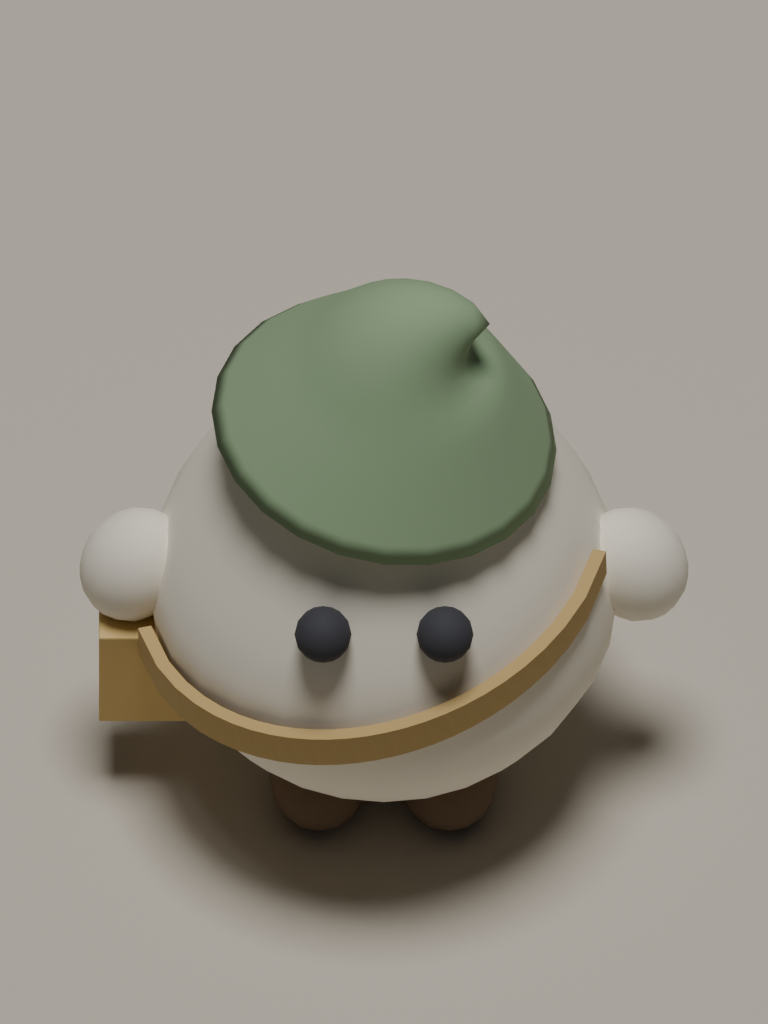
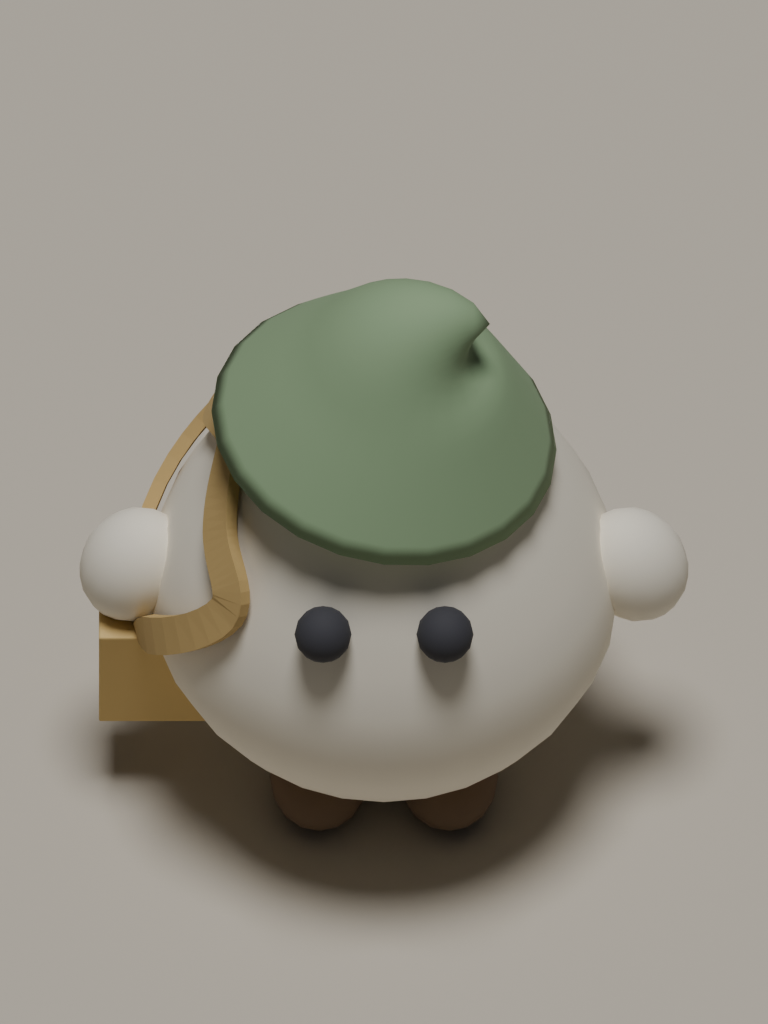
feat: shoulder-strap loop for Garden Wight
- Strap runs from the bag's front top edge up the front flank beside
  the face, over the shoulder and down the back to the bag's rear top
  edge; replaces the front-only band that read as a mouth from the
  50 degree preview camera
- Catmull-Rom waypoints in (angle, height, surface offset) keep every
  sample outside the body; ends taper and bury inside the bag
- Docs: executed vs pending checks, image vs figure height, Body mesh
  name exception; add back, bag-side and 96/48 px figure-height renders

Claude-Session: https://claude.ai/code/session_019bN8vgtbadsSWB4L1po9wd

Changed region(s): [[0.1562, 0.375, 0.8125, 0.75], [0.25, 0.8125, 0.5312, 0.9062]]

diff --git a/art/generators/garden_wight.py b/art/generators/garden_wight.py
@@ -4,7 +4,7 @@ Generates the first static version of the game's non-human player
 character: a small, pear-shaped garden gnome ("Gartenwicht") with a
 cream overcoat, an asymmetric moss-green leaf cap, dark round eyes, two
 short rounded hand-stubs, two small dark-brown feet, and an ochre seed
-bag on a diagonal strap.
+bag on a shoulder strap.
 
 Conventions
 -----------
@@ -103,13 +103,24 @@ CONFIG = {
     "cap_bend_start": 0.45,       # fraction of cap_height where the droop begins
     # Seed bag + strap.
     "bag_size": (0.15, 0.10, 0.17),   # full x, y, z extents
-    "bag_height_ratio": 0.24,     # low enough for the strap to read as a diagonal
+    "bag_height_ratio": 0.24,
     "bag_embed": 0.35,            # fraction of bag x-extent overlapping the flank
+    # The strap is a loop on the bag side: up the front flank beside the face,
+    # over the shoulder, down the back, both ends buried in the bag's top.
+    # Angles are measured around the body from the front (0) towards the bag
+    # side (90); the back half mirrors them (180 - angle).
     "strap_width": 0.05,          # across the band
-    "strap_thickness": 0.018,     # band thickness; the band follows the body surface
+    "strap_end_width": 0.024,     # tapered ends, so both fit inside the bag's depth
+    "strap_taper_length": 0.05,   # height above the bag top over which the band narrows
+    "strap_thickness": 0.018,     # band thickness
     "strap_lift": 0.006,          # gap between body surface and the band's inner side
-    "strap_shoulder_ratio": 0.58,   # below the eyes, so the band never crosses them
-    "strap_shoulder_offset": 0.97,   # fraction of the body radius at shoulder height
+    "strap_mid_ratio": 0.62,      # lower waypoint height (fraction of body_height)
+    "strap_mid_angle_deg": 48.0,  # keeps the front run clear of the eyes and the hand
+    "strap_upper_ratio": 0.72,
+    "strap_upper_angle_deg": 64.0,
+    "strap_shoulder_ratio": 0.82,  # crest over the shoulder, at 90 deg (the bag side)
+    "strap_bag_inset": 0.25,      # anchor inset from the bag's front/back face, fraction of bag depth
+    "strap_bury": 0.03,           # how far each end reaches down into the bag
     # Preview only (never exported to GLB).
     "preview_pitch_deg": 50.0,    # camera tilt below the horizon
     "preview_distance": 3.0,      # orthographic: affects clipping/placement, not scale
@@ -263,15 +274,15 @@ def derive_dimensions(config: dict) -> dict:
     dims["bag_top_z"] = bag_z + bag_z_size / 2.0
     dims["body_radius_at_bag"] = bag_r
 
-    # Strap: diagonal band from the opposite shoulder down to the bag's top,
-    # laid over the front of the chest. The endpoints are fixed here; the
-    # band itself follows the body surface in between (see strap_path()).
-    shoulder_z = _height_at(config, config["strap_shoulder_ratio"])
-    shoulder_r = body_radius_at(shoulder_z, config)
-    start_x = -bag_sign * shoulder_r * config["strap_shoulder_offset"]
-    dims["strap_start"] = (start_x, shoulder_z)
-    dims["strap_end"] = (dims["bag_center"][0], dims["bag_top_z"])
-    dims["body_radius_at_shoulder"] = shoulder_r
+    # Strap anchors: front and back of the bag's top, inset from the faces
+    # (see strap_path() for the loop between them).
+    bag_x, bag_y, _bag_z = dims["bag_center"]
+    inset = bag_y_size * config["strap_bag_inset"]
+    front_y = bag_y + FRONT_SIGN * (bag_y_size / 2.0 - inset)
+    back_y = bag_y - FRONT_SIGN * (bag_y_size / 2.0 - inset)
+    anchor_x = bag_x - bag_sign * bag_x_size * 0.25   # towards the body
+    dims["strap_anchor_front"] = (anchor_x, front_y, dims["bag_top_z"])
+    dims["strap_anchor_back"] = (anchor_x, back_y, dims["bag_top_z"])
 
     # Overall silhouette of the assembled figure.
     dims["total_height"] = max(dims["cap_tip_z"], body_top)
@@ -286,28 +297,79 @@ def derive_dimensions(config: dict) -> dict:
     return dims
 
 
-def strap_path(config: dict, dims: dict, samples: int = 24) -> list:
-    """Centre line of the strap's inner side, lying on the front of the body.
+def _body_slope_at(z: float, config: dict, h: float = 1e-3) -> float:
+    """d(radius)/dz of the body surface at height ``z``."""
+    return (body_radius_at(z + h, config) - body_radius_at(z - h, config)) / (2.0 * h)
 
-    Interpolates straight between the strap endpoints in X/Z and projects
-    each point forward onto the body's surface of revolution (plus
-    ``strap_lift``). Past the body's silhouette (the bag end) the point
-    stays at the silhouette plane instead of cutting through the body.
-    Returns ``(x, y, z, nx, ny)`` tuples; ``(nx, ny)`` is the horizontal
-    outward surface normal at that point.
+
+def _catmull_rom(p0, p1, p2, p3, t: float) -> tuple:
+    t2, t3 = t * t, t * t * t
+    return tuple(
+        0.5 * (2.0 * b + (c - a) * t + (2.0 * a - 5.0 * b + 4.0 * c - d) * t2
+               + (3.0 * b - a - 3.0 * c + d) * t3)
+        for a, b, c, d in zip(p0, p1, p2, p3)
+    )
+
+
+def strap_path(config: dict, dims: dict, samples_per_span: int = 10) -> list:
+    """Inner centre line of the strap loop, with the outward surface normal.
+
+    Waypoints are given as ``(angle, z, extra)``: ``angle`` around the body
+    from the front towards the bag side, ``z`` the height, ``extra`` the
+    distance outside the body surface (plus ``strap_lift``). The loop runs
+    bag front -> front flank -> over the shoulder at 90 deg -> back flank
+    -> bag back, and both ends continue ``strap_bury`` down into the bag.
+    Interpolation happens in that space with ``extra`` clamped to >= 0, so
+    no sample can lie inside the body.
+
+    Returns ``(x, y, z, nx, ny, nz)`` tuples.
     """
-    (start_x, start_z), (end_x, end_z) = dims["strap_start"], dims["strap_end"]
+    bag_sign = dims["bag_sign"]
     lift = config["strap_lift"]
+
+    def to_keys(point):
+        x, y, z = point
+        angle = math.atan2(bag_sign * x, FRONT_SIGN * y)
+        return (angle, z, math.hypot(x, y) - body_radius_at(z, config) - lift)
+
+    def surface(ratio_key, angle_key):
+        return (math.radians(config[angle_key]), _height_at(config, config[ratio_key]), 0.0)
+
+    bury = config["strap_bury"]
+    front = dims["strap_anchor_front"]
+    back = dims["strap_anchor_back"]
+    mid = surface("strap_mid_ratio", "strap_mid_angle_deg")
+    upper = surface("strap_upper_ratio", "strap_upper_angle_deg")
+    crest = (math.pi / 2.0, _height_at(config, config["strap_shoulder_ratio"]), 0.0)
+    keys = [
+        to_keys((front[0], front[1], front[2] - bury)),
+        to_keys(front),
+        mid,
+        upper,
+        crest,
+        (math.pi - upper[0], upper[1], 0.0),
+        (math.pi - mid[0], mid[1], 0.0),
+        to_keys(back),
+        to_keys((back[0], back[1], back[2] - bury)),
+    ]
+    padded = [keys[0]] + keys + [keys[-1]]
+
     points = []
-    for i in range(samples + 1):
-        s = i / samples
-        x = start_x + (end_x - start_x) * s
-        z = start_z + (end_z - start_z) * s
-        r = body_radius_at(z, config)
-        depth = math.sqrt(max(r * r - x * x, 0.0))
-        length = math.hypot(x, depth) or 1.0
-        nx, ny = x / length, FRONT_SIGN * depth / length
-        points.append((x + nx * lift, FRONT_SIGN * depth + ny * lift, z, nx, ny))
+    spans = len(keys) - 1
+    for span in range(spans):
+        p0, p1, p2, p3 = padded[span:span + 4]
+        last = span == spans - 1
+        for i in range(samples_per_span + (1 if last else 0)):
+            angle, z, extra = _catmull_rom(p0, p1, p2, p3, i / samples_per_span)
+            radius = body_radius_at(z, config) + lift + max(extra, 0.0)
+            dir_x, dir_y = bag_sign * math.sin(angle), FRONT_SIGN * math.cos(angle)
+            # Surface of revolution: normal ~ (radial direction, -dr/dz).
+            slope = _body_slope_at(z, config)
+            norm = math.sqrt(1.0 + slope * slope)
+            points.append((
+                dir_x * radius, dir_y * radius, z,
+                dir_x / norm, dir_y / norm, -slope / norm,
+            ))
     return points
 
 
@@ -566,23 +628,26 @@ def build_cap(config: dict, dims: dict):
 
 
 def build_strap(config: dict, dims: dict):
-    """Closed band following the chest surface along ``strap_path()``.
+    """Closed band following the body surface along ``strap_path()``.
 
-    First Blender run: the earlier straight box sank into the curved chest
-    and only its upper end poked out between the eyes.
+    Earlier versions: a straight box sank into the chest; a front-only band
+    across the belly read as a mouth from the 50 degree preview camera.
     """
-    half_width = config["strap_width"] / 2.0
     thickness = config["strap_thickness"]
+    taper_top = dims["bag_top_z"] + config["strap_taper_length"]
     path = strap_path(config, dims)
 
     bm = bmesh.new()
     sections = []
-    for i, (x, y, z, nx, ny) in enumerate(path):
+    for i, (x, y, z, nx, ny, nz) in enumerate(path):
         prev_pt = Vector(path[max(i - 1, 0)][:3])
         next_pt = Vector(path[min(i + 1, len(path) - 1)][:3])
         along = (next_pt - prev_pt).normalized()
-        outward = Vector((nx, ny, 0.0))
+        outward = Vector((nx, ny, nz))
         across = along.cross(outward).normalized()
+        taper = _smoothstep(dims["bag_top_z"], taper_top, z)
+        half_width = 0.5 * (config["strap_end_width"]
+                            + (config["strap_width"] - config["strap_end_width"]) * taper)
         inner = Vector((x, y, z))
         outer = inner + outward * thickness
         sections.append([

diff --git a/art/README.md b/art/README.md
@@ -60,10 +60,20 @@ gedrungener, birnenförmiger Gartenwicht.
   `cap_bend_deg` zur Neigungsseite (+X). Kein Modifier. Objektursprung auf der
   Krempenmitte, `cap_lean_deg` kippt die Kappe um ihre Basis; Unterseite
   geschlossen.
-- **Samenbeutel & Riemen**: abgerundeter Quader an der Flanke gegenüber der
-  Kappenneigung. Der Riemen ist ein geschlossenes Band, das `strap_path()` auf
-  der Körperoberfläche folgt (plus `strap_lift`), vom Schulterpunkt an der
-  Silhouette unterhalb der Augen bis zur Beuteloberkante.
+- **Samenbeutel**: abgerundeter Quader an der Flanke gegenüber der
+  Kappenneigung (−X).
+- **Riemen (Schultergurt)**: geschlossenes Band als Schlaufe auf der
+  Beutelseite: von der Vorderkante des Beuteldeckels an der vorderen Flanke
+  neben dem Gesicht hoch, über die Schulter (Scheitel bei 90°, Höhe
+  `strap_shoulder_ratio`), an der hinteren Flanke hinunter zur Hinterkante des
+  Beuteldeckels. Beide Enden reichen `strap_bury` in den Beutel hinein und
+  verjüngen sich auf den letzten `strap_taper_length` über dem Deckel auf
+  `strap_end_width`, damit sie in die 10 cm Beuteltiefe passen.
+  `strap_path()` interpoliert Stützpunkte in (Winkel um den Körper, Höhe,
+  Abstand zur Oberfläche) per Catmull-Rom; der Abstand wird auf ≥ 0 begrenzt,
+  daher liegt kein Abschnitt im Körper. Die Rückseite spiegelt die vorderen
+  Stützpunkte (`180° − Winkel`). `strap_mid_angle_deg` hält den vorderen Lauf
+  zwischen Augen und Hand. Der Arm ragt durch die Schlaufe.
 - **Materialien**: flache, matte Principled-BSDF-Materialien (hohe Rauheit,
   kein Metallic), keine Texturen.
 
@@ -111,8 +121,9 @@ Erzeugte Dateien:
   Kamera).
 - `garden_wight.glb` — **ausschließlich** die Figur inklusive Materialien.
   Der Export läuft, bevor das Vorschau-Setup überhaupt existiert. Geprüft:
-  11 Nodes (`GardenWight_Root` + 10 Mesh-Teile, Mesh-Namen = Objektnamen),
-  6 Materialien, keine Kameras, Lichter oder Boden.
+  11 Nodes (`GardenWight_Root` + 10 Mesh-Teile), 6 Materialien, keine
+  Kameras, Lichter oder Boden. Mesh-Namen entsprechen den Objektnamen, außer
+  beim Körper: Node `Body`, Mesh `Body_Mesh`.
 - `garden_wight_preview.png` (nur mit `--render`).
 
 ### Vorschaukamera und Renderweg
@@ -133,24 +144,46 @@ portabelste Weg zu einem Standbild. Auf einer GPU-Maschine kann
 `scene.cycles.device` bei Bedarf umgestellt werden — bewusst keine
 Automatik.
 
-### Stand: erster Blender-Lauf
+### Stand und Prüfungen
 
-Geprüft mit Blender 5.2.1 LTS: Prozess Exit 0, `.blend`, `.glb` und PNG
-erzeugt, gebaute Höhe 0,942 (Sohlen auf z = 0). Referenzvorschau:
-`docs/previews/garden_wight.png`.
+**Bildhöhe vs. Figurenhöhe:** Die Vorschau ist 1024 px hoch, die Figur nimmt
+darin 553 px ein. Kleinprüfungen beziehen sich auf die **Figurenhöhe**; die
+Prüfbilder sind auf den Figurenrahmen zugeschnitten und so skaliert, dass die
+Figur 96 bzw. 48 px hoch ist. (Die Angaben „96/48 px“ beim ersten Lauf waren
+Bildhöhen, die Figur war dort nur ca. 52/26 px hoch.)
 
-Beim ersten Lauf behoben: rautenförmiger Körper mit spitzem Boden
-(Profilfunktion), verdrehte, schwebende Kappe (der Bend-Modifier bog quer zur
-Kegelachse), im Brustkorb versunkener Riemen (Box → Oberflächenband), in der
-Vorschau verdeckte Füße, ohrenartig abstehende Hände, vertauschte
-`.L`/`.R`-Namen.
+Ausgeführt (Blender 5.2.1 LTS, Windows, Nutzer-PC; Protokolle lokal unter
+`build/characters/garden_wight/run.log` und `views.log`):
+
+- Generator mit `--render`: Exit 0; `.blend`, `.glb`, PNG erzeugt; gebaute
+  Höhe 0,942, Sohlen auf z = 0.
+- Vorschau (`docs/previews/garden_wight.png`): Augen frei, der Riemen läuft
+  links neben dem Gesicht senkrecht zur Schulter; kein Bogen unter den Augen.
+- Rückansicht 50° (`garden_wight_back.png`) und Beutelseite 20°
+  (`garden_wight_side_bag.png`): durchgehende Schlaufe über die Schulter,
+  beide Enden im Beutel, keine freien Enden, kein sichtbares Eintauchen in den
+  Körper.
+- Figurenhöhe 96 px (`garden_wight_fig96px.png`): Augen, Kappe, Riemen als
+  seitlicher Gurt erkennbar, nicht als Mund. Figurenhöhe 48 px
+  (`garden_wight_fig48px.png`): Augen als Punkte lesbar, der Riemen ist nur noch
+  ein schmaler ockerfarbener Streifen links – nicht mundartig, aber kaum als
+  Gurt identifizierbar.
+- GLB-JSON: 11 Nodes, 10 Meshes, 6 Materialien, keine Kameras/Lichter/Boden;
+  Augen bei glTF z = +0,255 (Gesicht vorne +Z); Riemen-Mesh reicht von
+  z = −0,211 bis +0,211 (Vorder- und Rückseite).
+- Rechnerisch (Python ohne Blender): Mindestabstand der Riemen-Innenseite zur
+  Körperoberfläche = `strap_lift`; alle Riemenabschnitte unterhalb der
+  Beuteloberkante liegen samt Endbreite und Dicke im Beutelquader.
+
+Ausstehend: Godot-Import, andere Blender-Versionen.
 
 Offene visuelle Befunde:
 
-1. **Riemen als Bogen.** Aus der 50°-Kamera wölbt sich das Band über den
-   runden Bauch und kann bei kleiner Darstellung wie ein Mund wirken.
-2. **Kleine Darstellung.** Bei ca. 96 px Bildhöhe sind Augen, Kappe und
-   Riemen erkennbar; bei ca. 48 px bleiben nur weiße Form und grüne Kappe,
-   die Augen sind kaum lesbar.
-3. **Riemenende an der Schulter** endet offen an der Silhouette, statt über
-   die Schulter nach hinten zu laufen; der Beutel ist ein schlichter Quader.
+1. **Knick am Beutel.** In der 50°-Vorschau knickt der Gurt über dem
+   Beuteldeckel von der Querrichtung in den senkrechten Lauf; an den
+   Stützpunkten sind leichte Kanten im flach schattierten Band sichtbar.
+2. **48 px Figurenhöhe:** Gurt kaum lesbar (siehe oben).
+3. Der Beutel ist ein schlichter Quader; die Gurtenden verschwinden im Deckel
+   statt an sichtbaren Laschen.
+4. Zwei Läufe derselben Revision erzeugen GLBs mit identischem JSON-Teil,
+   aber abweichendem Binärpuffer (gleiche Länge); Ursache nicht untersucht.

diff --git a/docs/STATUS.md b/docs/STATUS.md
@@ -3,13 +3,13 @@
 **Goal:** First static player character ("Garden Wight") as a reproducible Blender-Python generator. No Godot project, gameplay, rigging or animation yet.
 
 **Implemented:**
-- `art/generators/garden_wight.py` — standalone Blender script producing `.blend`, figure-only `.glb` and Cycles preview PNG. First real Blender run fixed body profile, cap geometry (bmesh, no modifier), surface-following strap, feet/hand placement, `.L`/`.R` naming.
-- `art/README.md` — conventions, design, usage, verified state, open visual findings.
-- `docs/previews/garden_wight.png` — real render (768×1024, 50° ortho).
+- `art/generators/garden_wight.py` — standalone Blender script: `.blend`, figure-only `.glb`, Cycles preview PNG. Strap is a shoulder loop on the bag side (front flank → over shoulder → back flank), ends tapered and buried in the bag top.
+- `art/README.md` — conventions, design, usage, executed vs. pending checks, open findings.
+- `docs/previews/` — real renders: front preview, back, bag side, crops at 96/48 px figure height.
 
-**Checks (Blender 5.2.1 LTS, user PC, Windows):** generator with `--render` — PASS (exit 0, all three files written). Preview PNG viewed at full size, ~96 px and ~48 px — PASS for full figure, eyes, feet/ground contact, cap, strap. GLB JSON — PASS: 11 nodes (root + 10 meshes), 6 materials, no camera/light/ground; face on glTF +Z.
-**NOT RUN:** Godot import; Blender versions other than 5.2.1.
+**Checks (Blender 5.2.1 LTS, user PC):** generator `--render` — PASS (exit 0, three files). Front/back/side renders viewed — PASS: eyes clear, no arc under eyes, continuous loop, no free ends or visible sinking. 96 px figure height — PASS; 48 px — not mouth-like, strap barely legible. GLB JSON — PASS: 11 nodes, 6 materials, no camera/light/ground, face on glTF +Z.
+**NOT RUN:** Godot import; other Blender versions.
 
-**Open findings:** strap reads as an arc/mouth from 50°; eyes barely legible at ~48 px; Godot must treat +Z as model front (`look_at(..., true)` or 180° turn).
+**Open findings:** kink where the strap leaves the bag top; strap weak at 48 px figure height; Godot must treat +Z as model front.
 
-**Next step:** Godot import test, or visual tuning of strap/small-size readability.
+**Next step:** Godot import test.
